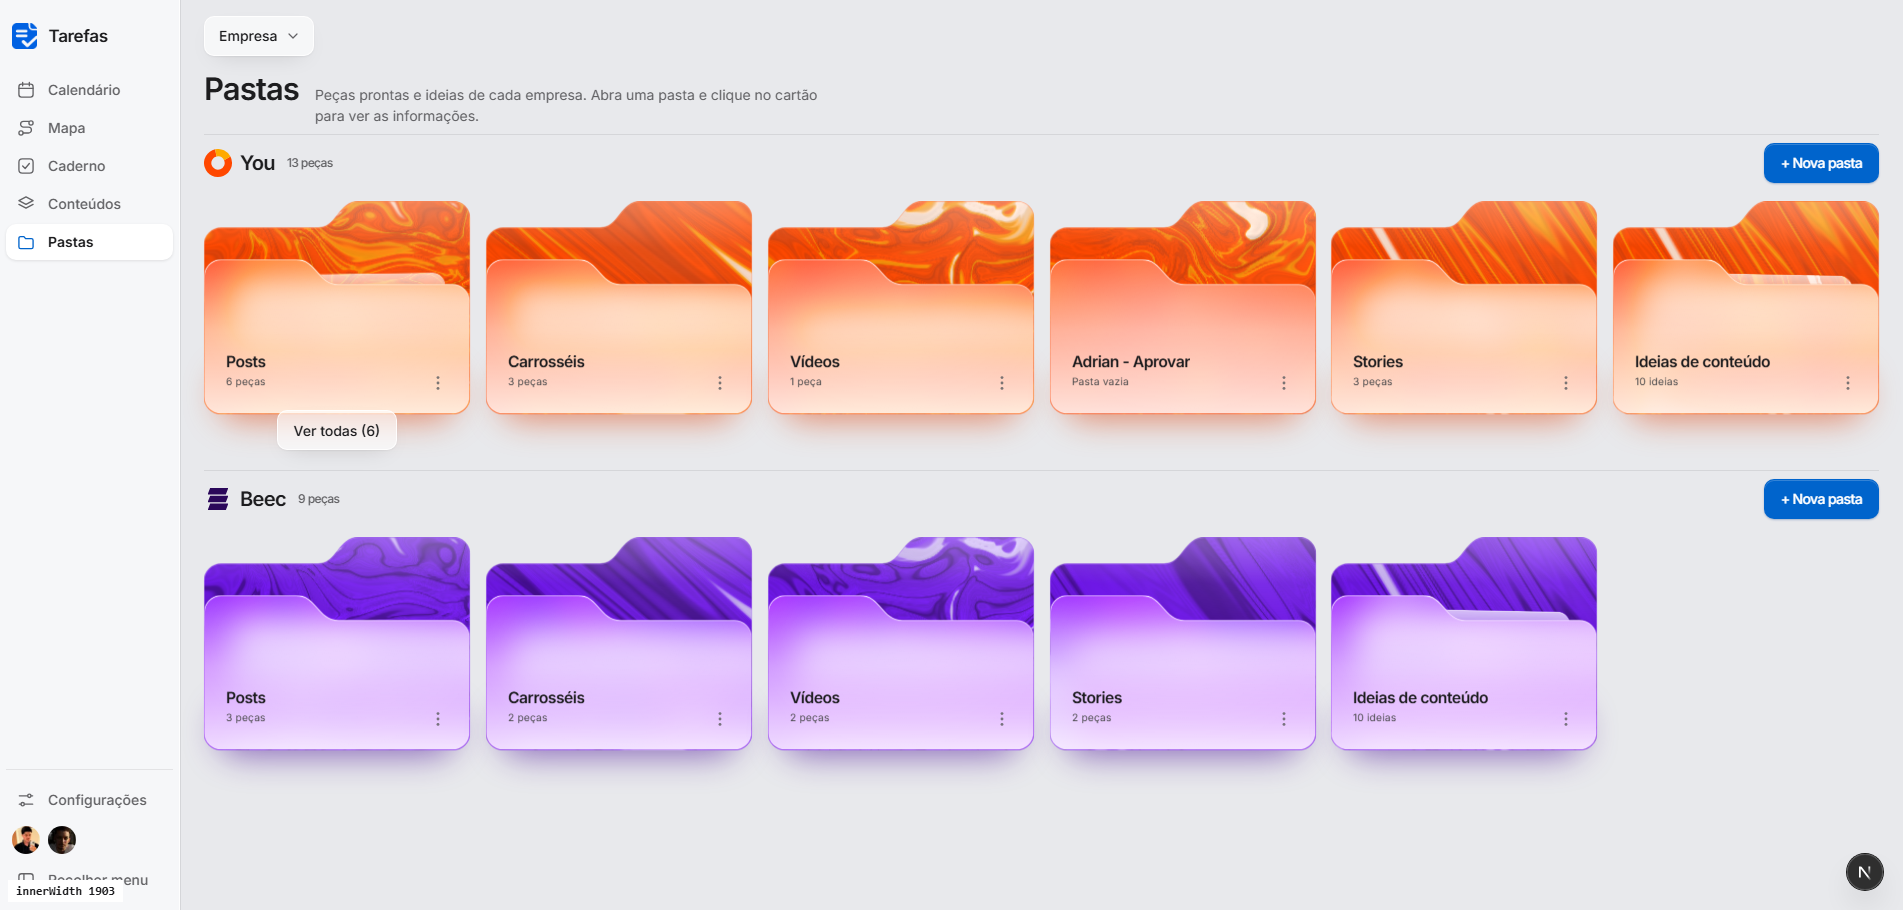
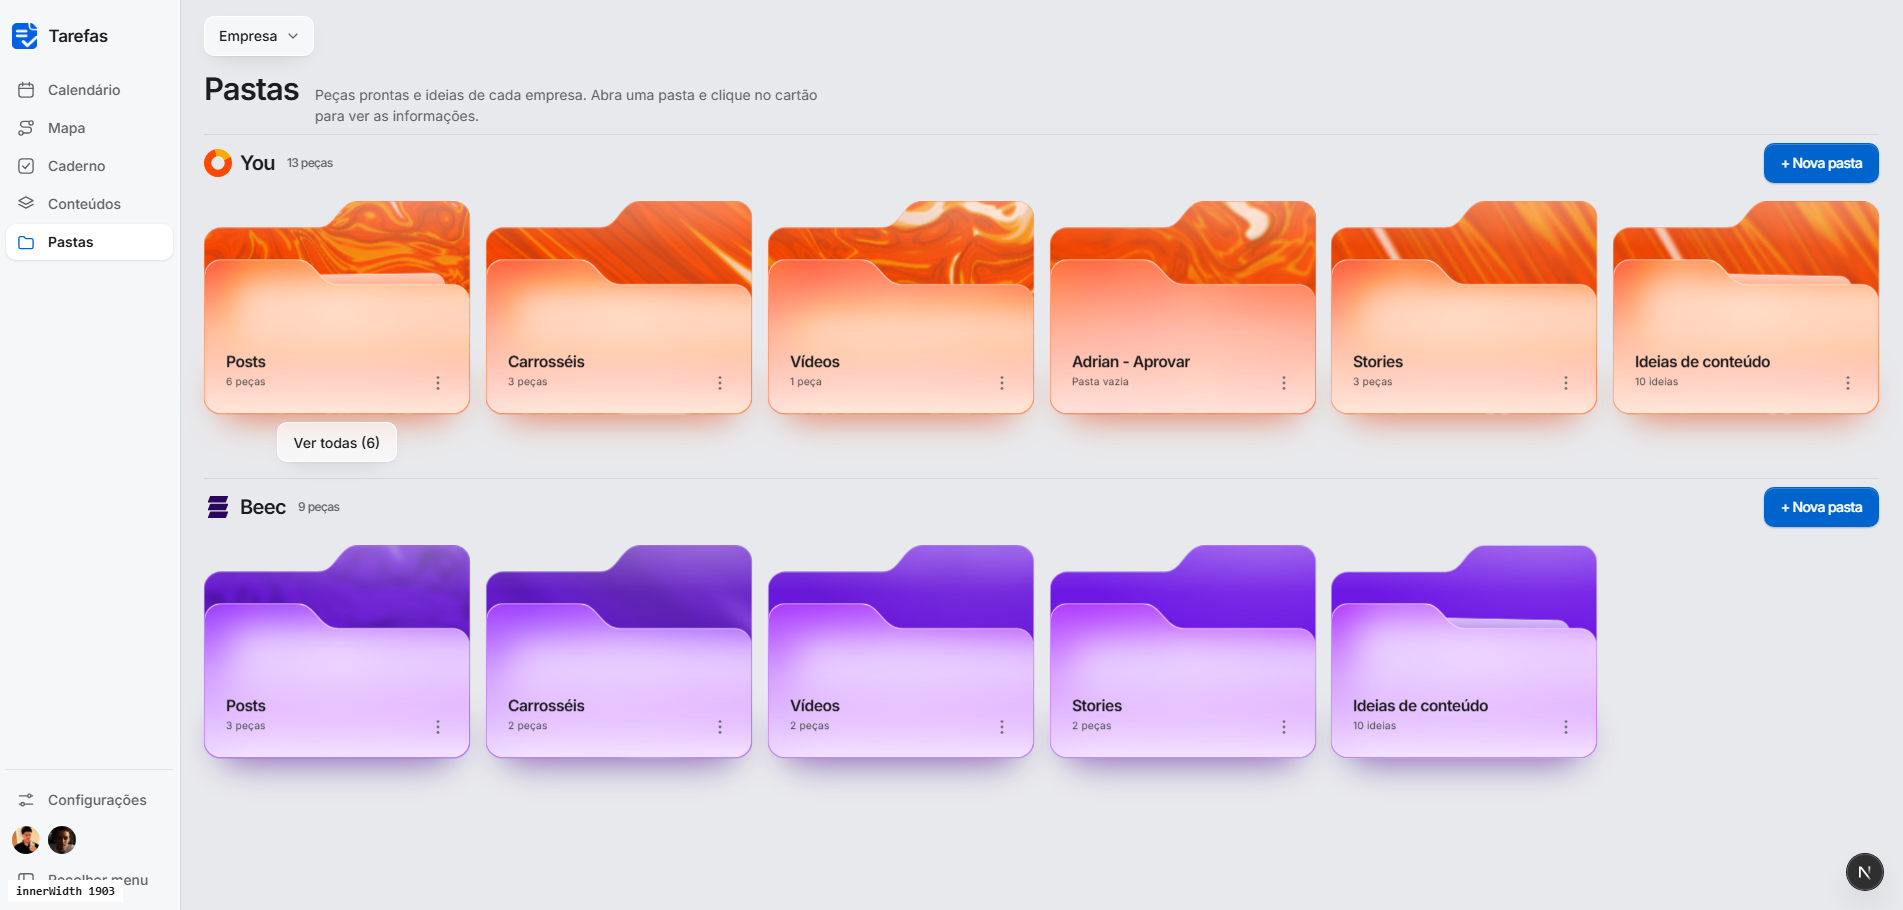
Pastas: Ver todas abaixo da pasta, sem cobrir (item 140)

diff --git a/src/components/pastas/pastas.css b/src/components/pastas/pastas.css
@@ -243,4 +243,4 @@ canvas.gf-sheet-art[data-ready] { opacity: 1; filter: none; }
 .card-flut .ficha-anexos { padding-top: 0; }
 
 /* Nova folha e Ver todas: lado a lado, no vão embaixo da pasta (não ocupam linha) */
-.gf-barra { display: flex; justify-content: center; gap: var(--s-8); margin: calc(-1 * var(--s-4)) 0 calc(-1 * var(--app-controle)); position: relative; z-index: 2; }
+.gf-barra { display: flex; justify-content: center; gap: var(--s-8); margin: var(--s-8) 0 calc(-1 * var(--app-controle)); position: relative; z-index: 2; }
